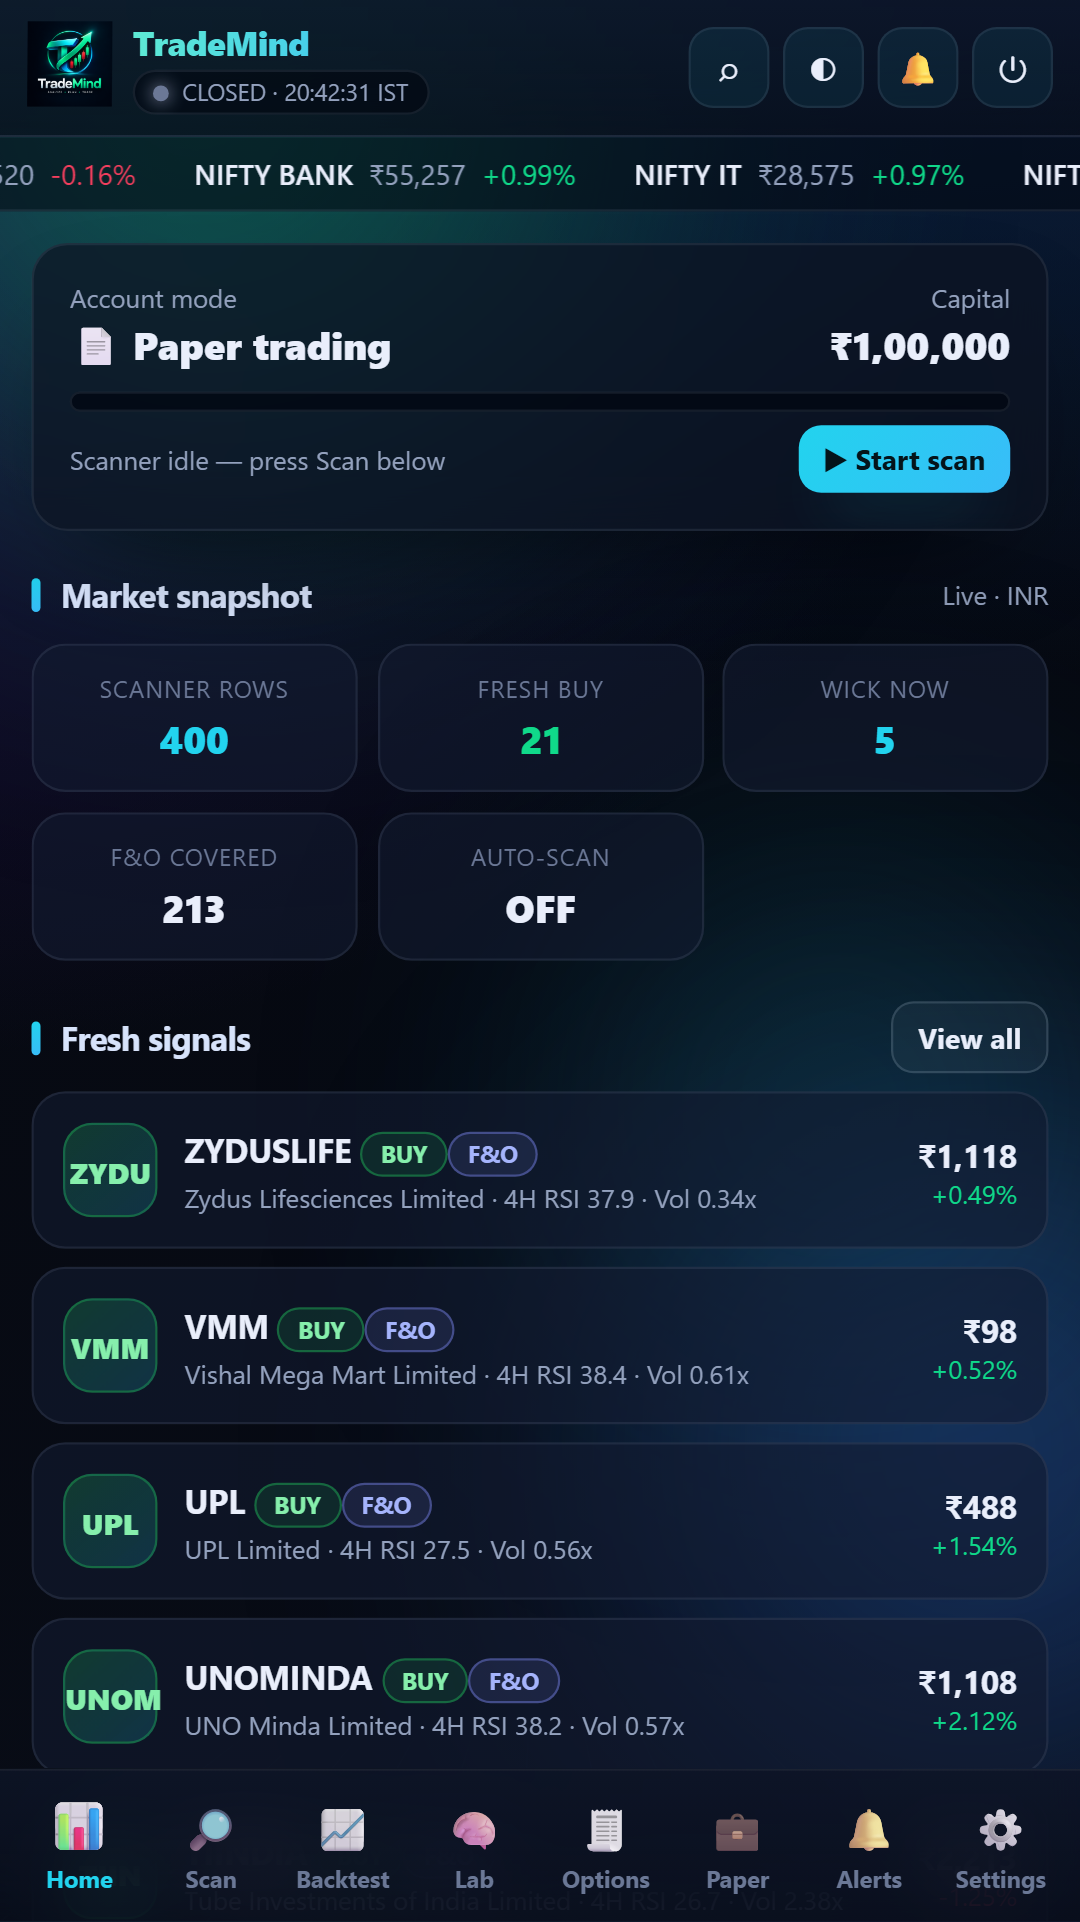
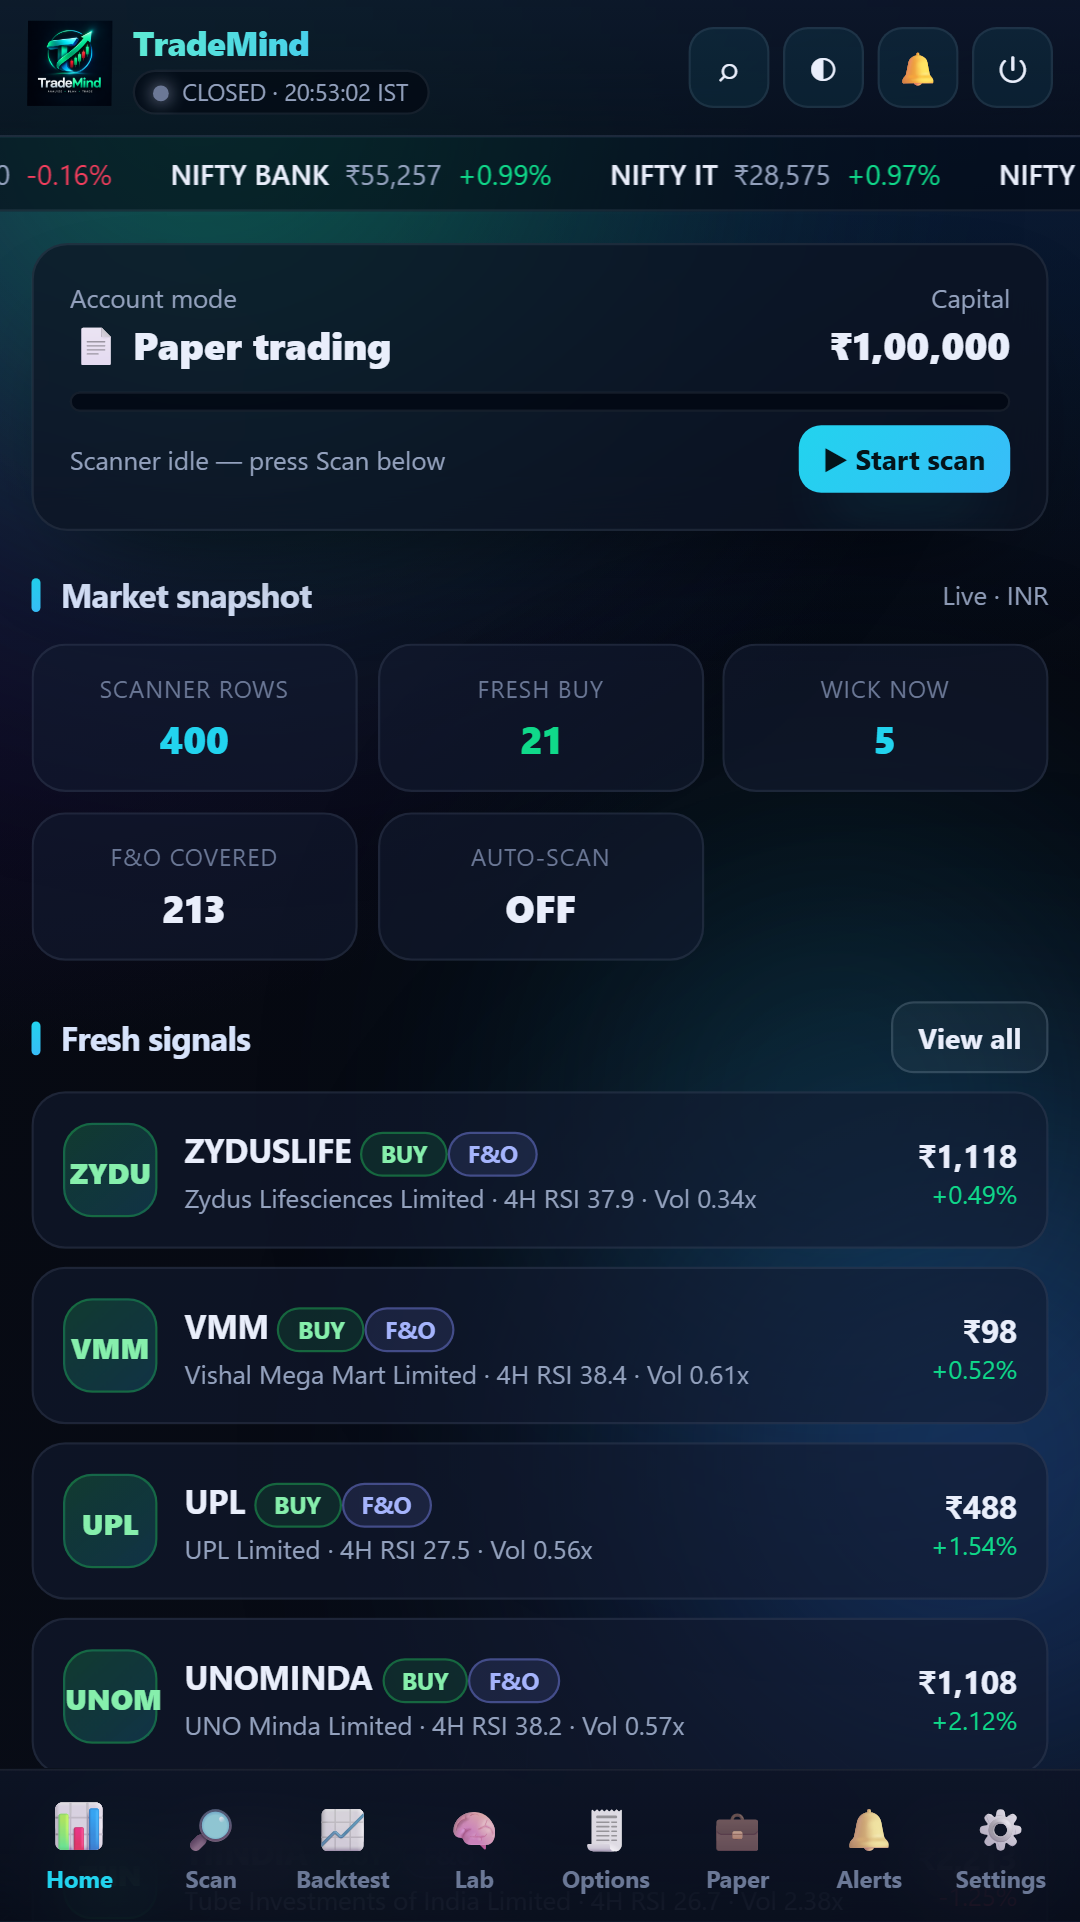
Screenshots: add stock-analysis shot, refresh full phone set (7x 1080x1922)

diff --git a/PLAYSTORE.md b/PLAYSTORE.md
@@ -78,15 +78,15 @@ asset-links. Two ways to avoid that:
 |---|---|---|
 | App icon | 512×512 PNG | ✅ `public/icons/icon-512.png` |
 | Feature graphic | 1024×500 PNG | ✅ `public/store/feature-graphic-1024x500.png` |
-| Phone screenshots | 2–8, 1080×1922 (9:16) | ✅ 6 in `public/store/screenshots/phone-*.png` |
+| Phone screenshots | 2–8, 1080×1922 (9:16) | ✅ 7 in `public/store/screenshots/phone-*.png` |
 | 7" tablet screenshots | ≥1, 1200×1920 | ✅ 2 in `public/store/screenshots/tablet-7in-*.png` |
 | 10" tablet screenshots | ≥1, 1600×2560 | ✅ 2 in `public/store/screenshots/tablet-10in-*.png` |
 | Short description | ≤80 chars | see below |
 | Full description | ≤4000 chars | see below |
 
 Screenshots are real captures of the running app (headless Chromium emulating a
-phone / 7" / 10" viewport against a live session) — dashboard, scanner,
-backtest, Strategy Lab, options analytics, auto paper-trading.
+phone / 7" / 10" viewport against a live session) — dashboard, scanner, stock
+analysis, backtest, Strategy Lab, options analytics, auto paper-trading.
 
 ### Short description (74 chars)
 
